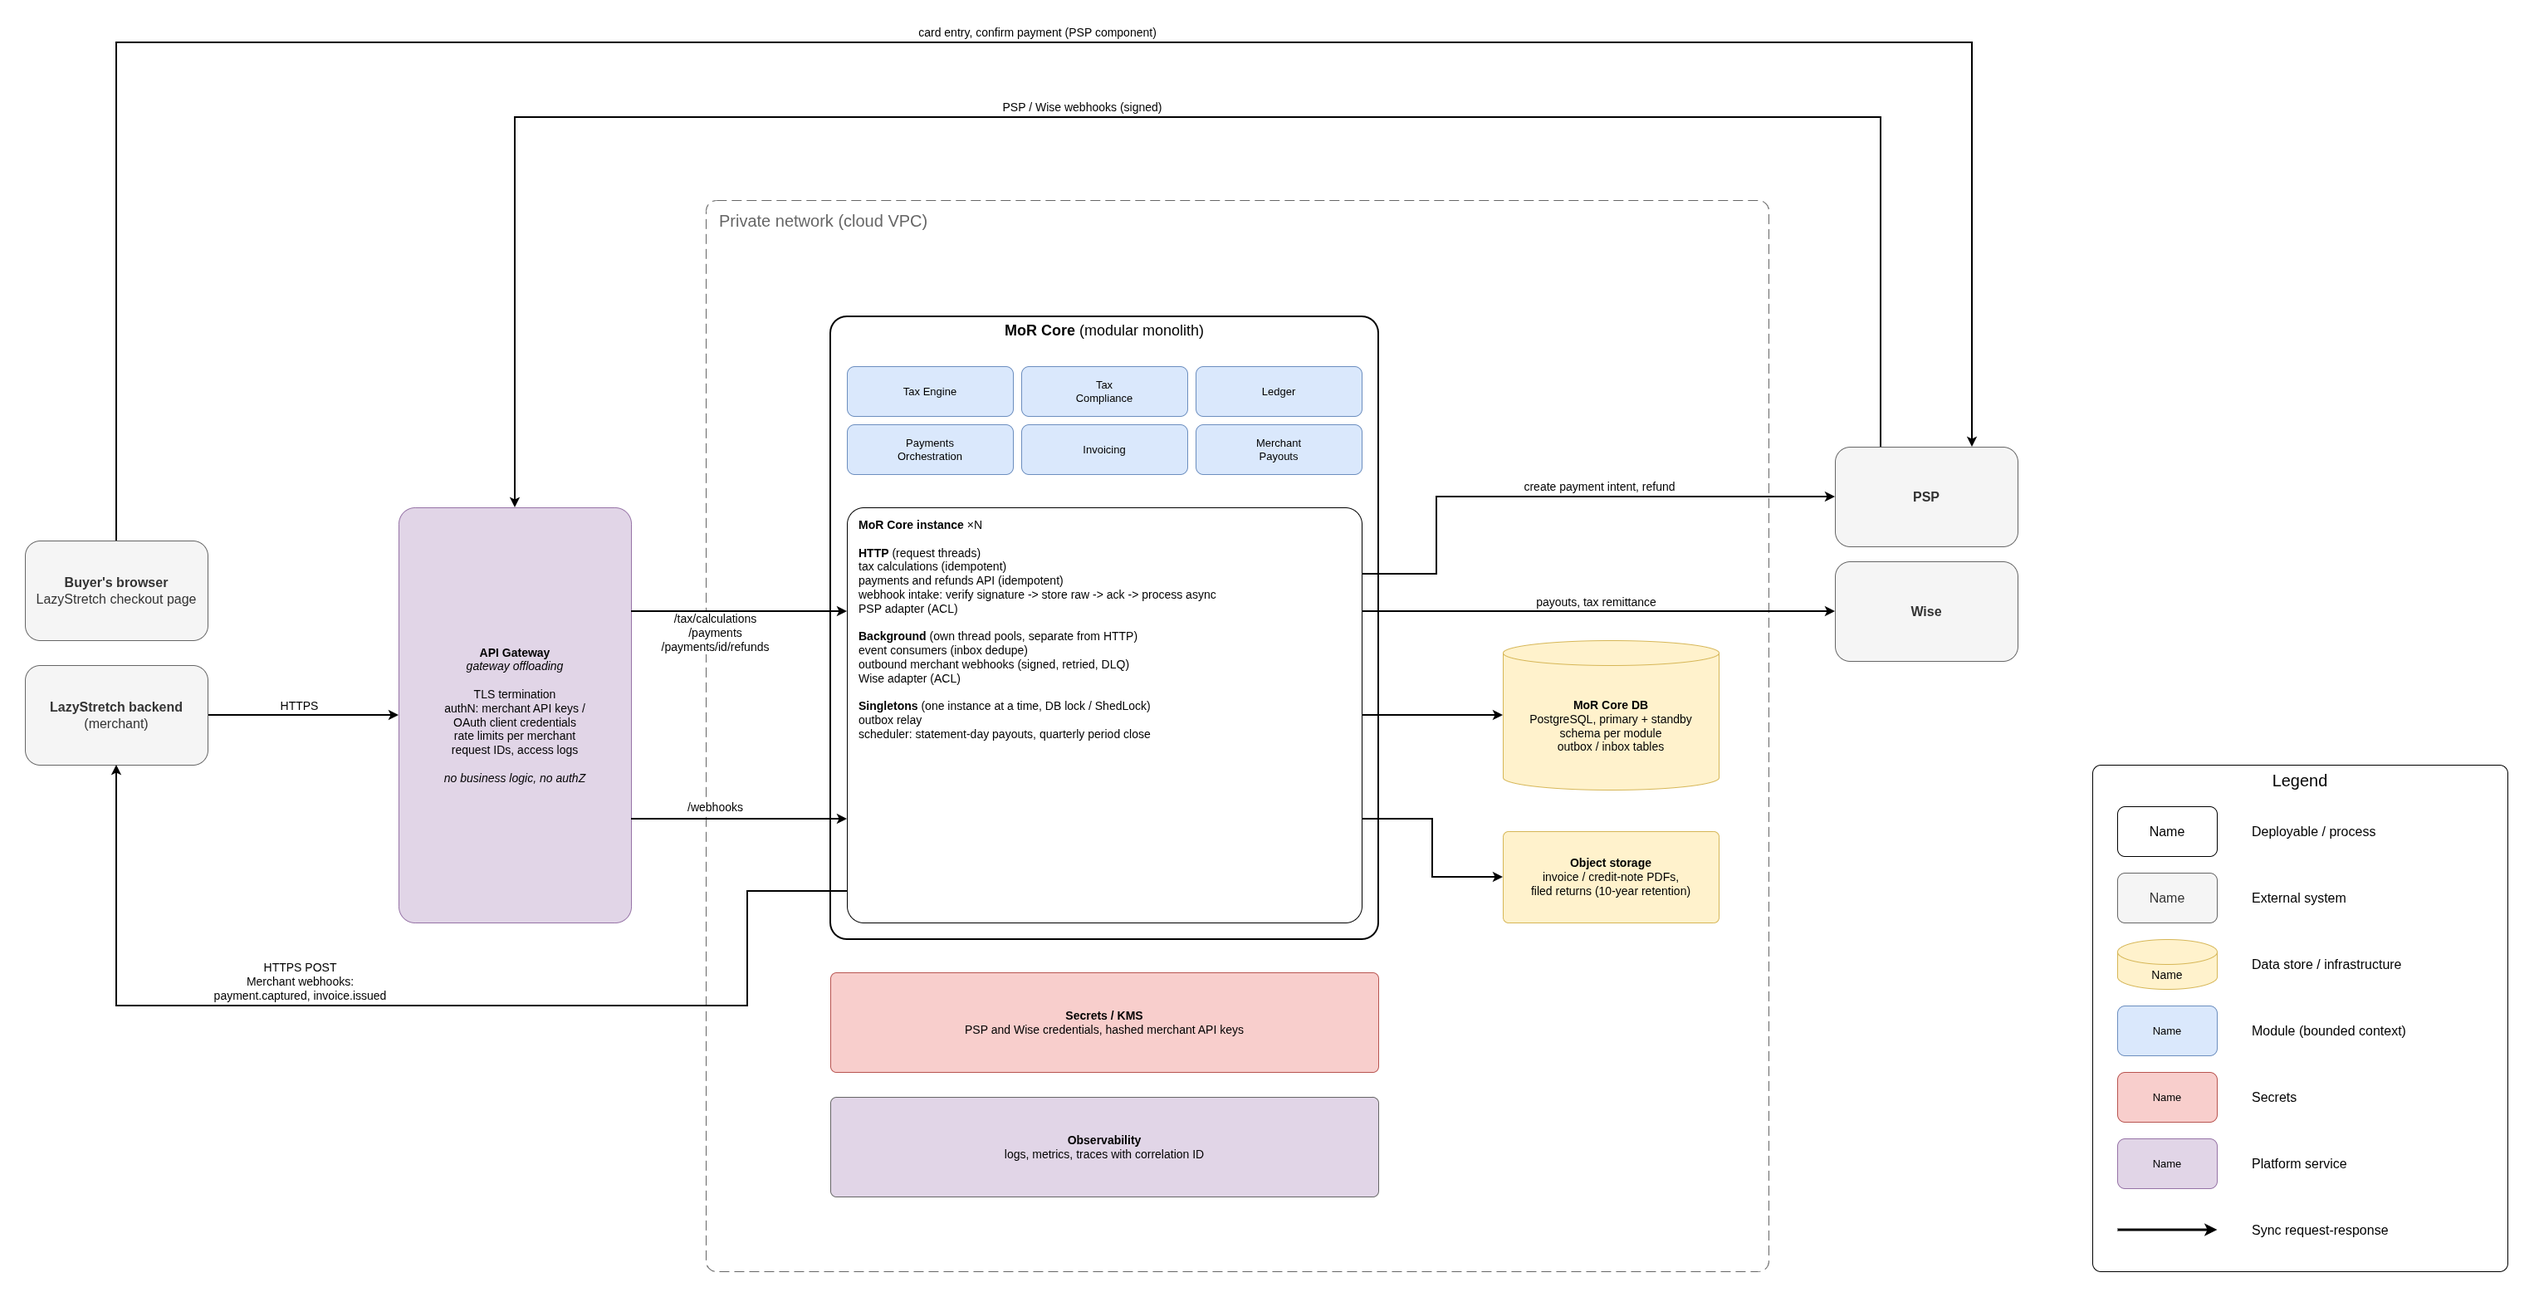
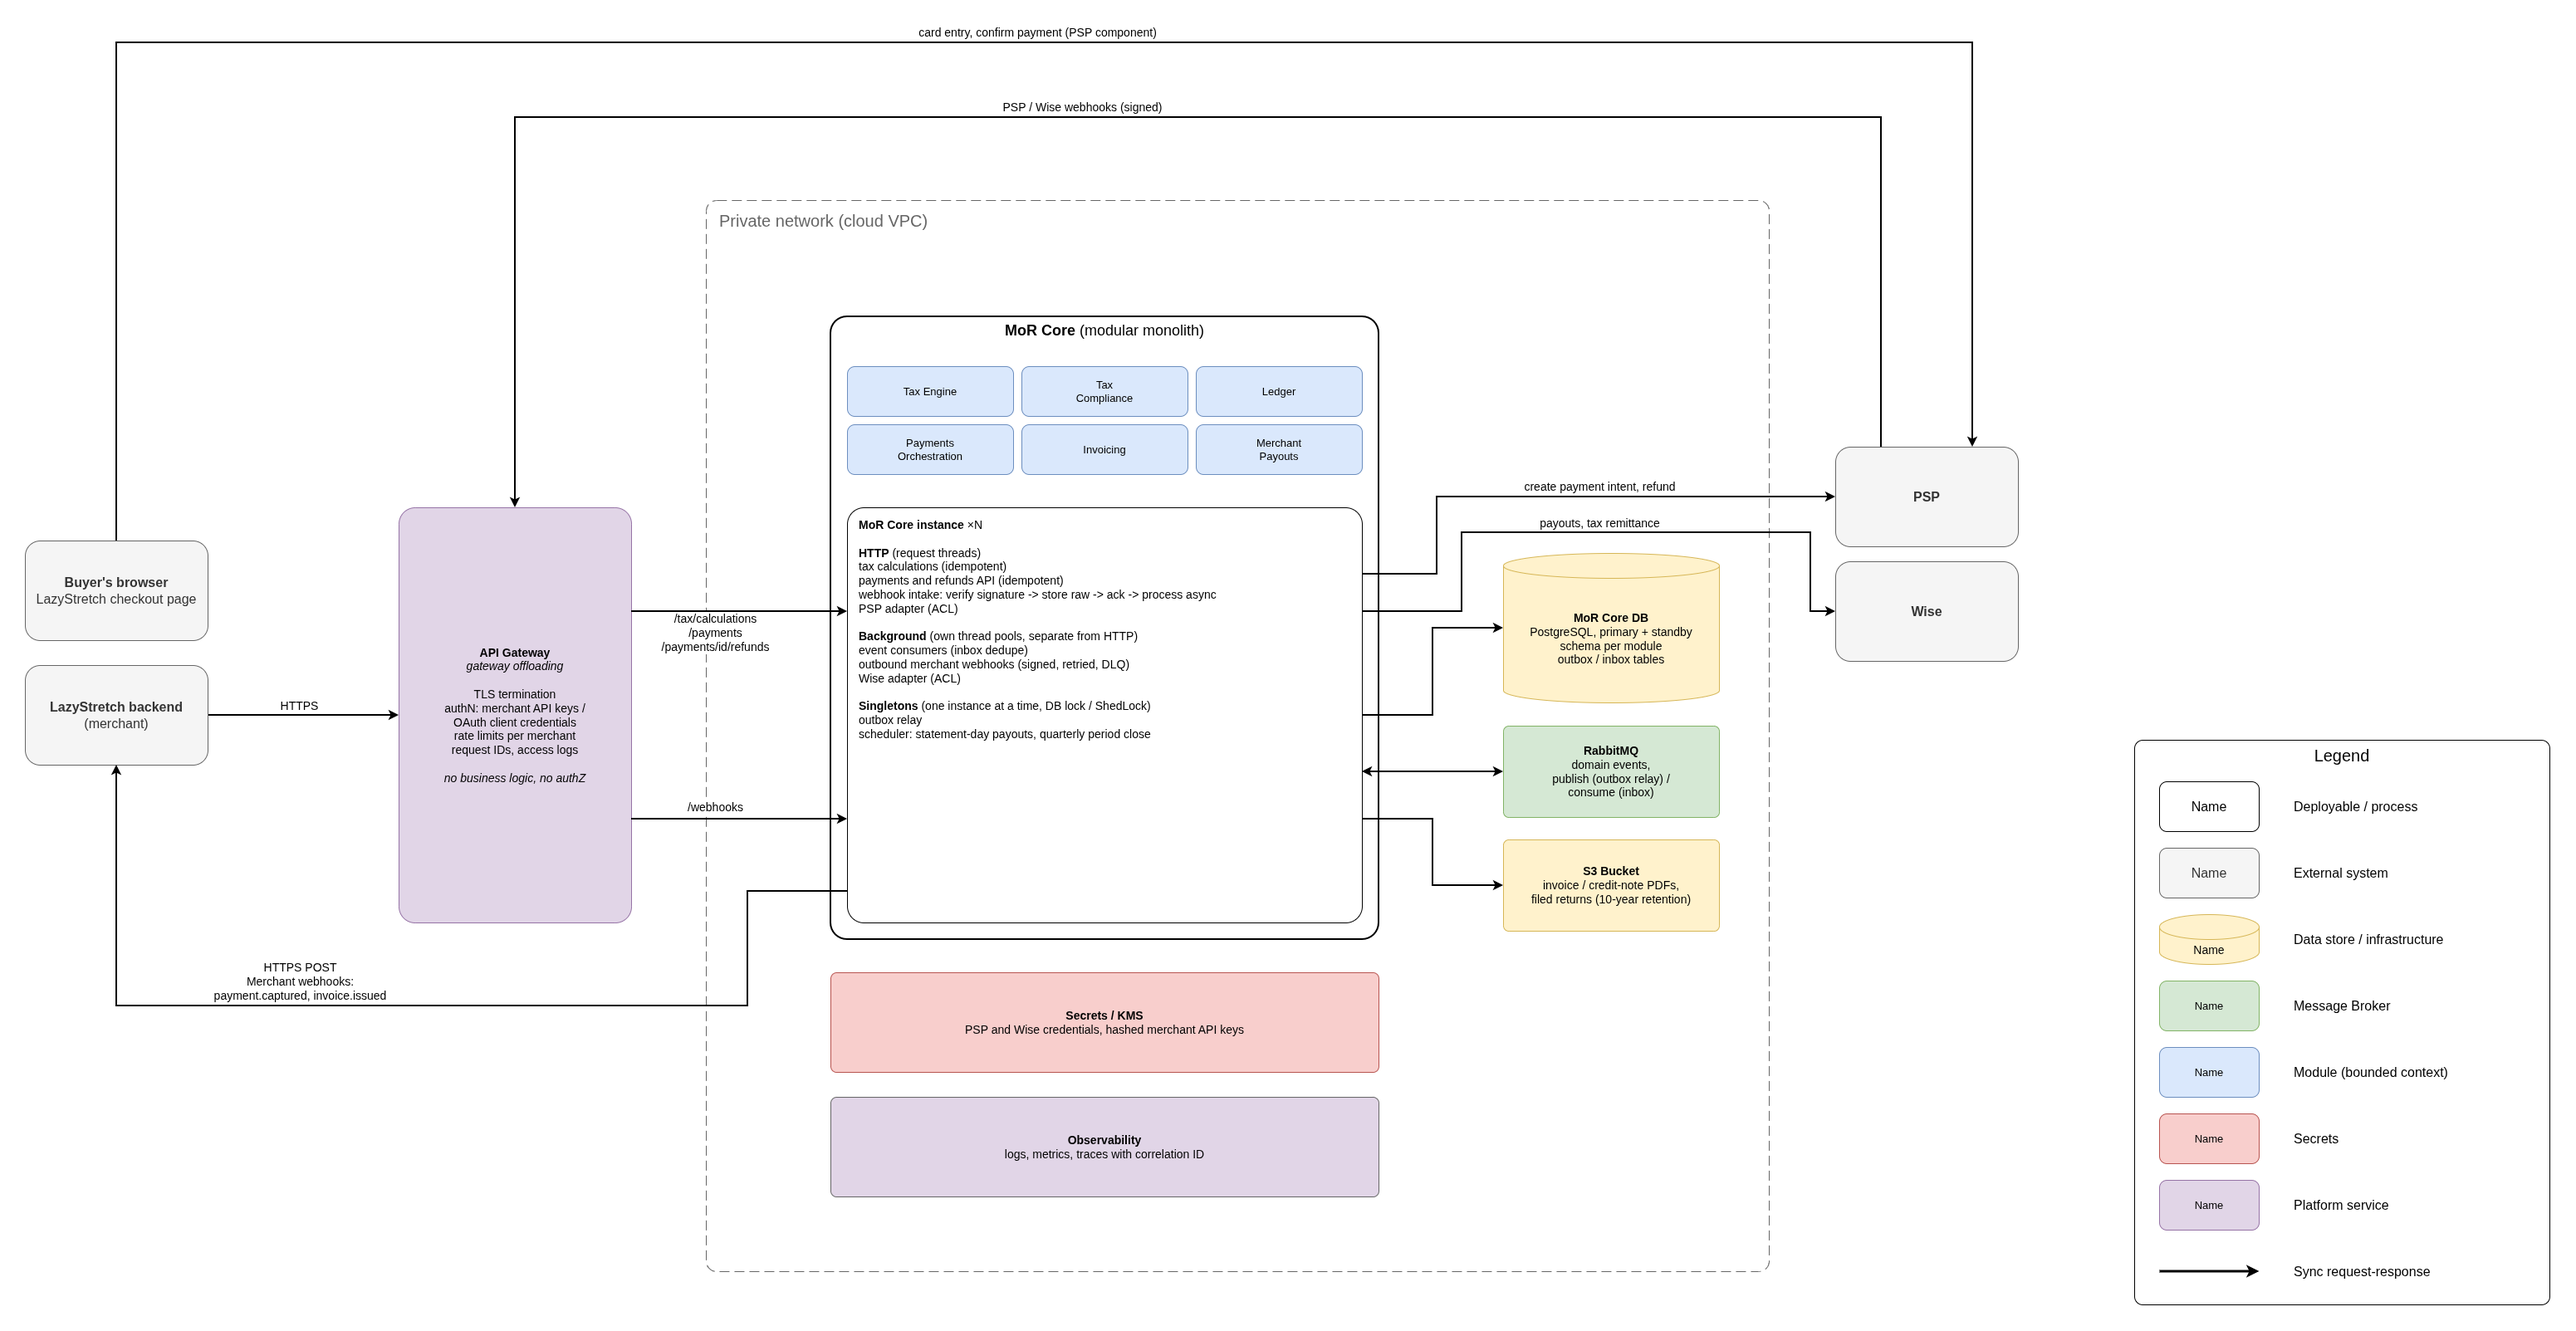
Updated the design

diff --git a/homework/design/implementation.html b/homework/design/implementation.html
@@ -20,21 +20,37 @@
 <li><a href="../design/communications.html"><span class="num">04</span>Communications Diagram</a></li>
 <li><a href="../design/architecture.html"><span class="num">05</span>Quality Attributes &amp; Architectural Style</a></li>
 <li><a href="../design/deployment.html"><span class="num">06</span>Deployment Diagram</a></li>
-<li class="active"><a href="../design/implementation.html" aria-current="page"><span class="num">07</span>Implementation Details</a><ol class="toc"><li><a href="#event-delivery-no-broker">Event delivery (no broker)</a></li><li><a href="#idempotency">Idempotency</a></li><li><a href="#ledger-internals">Ledger internals</a></li><li><a href="#data-ownership-and-retention">Data ownership and retention</a></li><li><a href="#security">Security</a></li></ol></li>
+<li class="active"><a href="../design/implementation.html" aria-current="page"><span class="num">07</span>Implementation Details</a><ol class="toc"><li><a href="#event-delivery-rabbitmq">Event delivery (RabbitMQ)</a></li><li><a href="#idempotency">Idempotency</a></li><li><a href="#ledger-internals">Ledger internals</a></li><li><a href="#data-ownership-and-retention">Data ownership and retention</a></li><li><a href="#security">Security</a></li></ol></li>
 <li class="group">Appendix</li><li><a href="../design/sequence-diagrams.html"><span class="num">A</span>Sequence Diagrams</a></li>
 </ol>
 </nav>
 <main class="content">
 <h1 id="implementation-details">Implementation Details</h1>
-<h2 id="event-delivery-no-broker">Event delivery (no broker)<a class="anchor" href="#event-delivery-no-broker" aria-label="Link to this section">#</a></h2>
+<h2 id="event-delivery-rabbitmq">Event delivery (RabbitMQ)<a class="anchor" href="#event-delivery-rabbitmq" aria-label="Link to this section">#</a></h2>
 <ul>
-<li>The event is written to the module&#39;s <code>outbox</code> table in the same DB transaction as the state change.</li>
-<li>A singleton outbox relay (DB lock) delivers events in-process to subscribers; each handler runs in its own transaction.</li>
-<li>The relay, retries and dead-letter handling come from a proven library (framework outbox support or a Postgres-backed queue), not hand-written code.</li>
-<li>At-least-once delivery, ordered per aggregate (payment ID, payout ID); retries with backoff, then a dead-letter table and an alert.</li>
+<li>The event is written to the module&#x27;s <code>outbox</code> table in the same DB transaction as the state change.</li>
+<li>A singleton outbox relay (DB lock) publishes the events to RabbitMQ with publisher confirms; a row is marked sent only after the broker confirms it.</li>
+<li>One topic exchange per publishing module; each consuming module has its own durable queue bound by event type, so modules don&#x27;t share queues.</li>
+<li>Consumers dedupe through the module&#x27;s <code>inbox</code> table; each handler runs in its own transaction and acks the message after commit.</li>
+<li>At-least-once delivery, ordered per aggregate (payment ID, payout ID): a single active consumer per queue, and state-transition guards drop late events.</li>
+<li>Retries with backoff through retry queues (message TTL + dead-letter exchange), then a dead-letter queue and an alert.</li>
 <li>Events carry an event ID, a schema version and a correlation ID; fields are only added, never changed.</li>
-<li>After a split, the relay publishes to Kafka/RabbitMQ instead; the outbox, inbox and event contracts stay the same.</li>
+<li>Exchanges, queues, bindings and policies are declared in code and versioned with the app, so the topology is reviewable and reproducible.</li>
+<li>After a split, the extracted service connects to the same broker; the outbox, inbox, exchanges and event contracts stay the same.</li>
 </ul>
+<p>Why RabbitMQ:</p>
+<ul>
+<li>Industry standard and production-grade.</li>
+<li>Widely adopted, so it is easier to hire engineers who have run it than for niche libraries.</li>
+<li>Easy to maintain: exchanges and queues are explicit, and the management UI shows queue depth, unacked and dead-lettered messages when something goes wrong.</li>
+<li>The infrastructure is ready for splitting the monolith into services when it is needed.</li>
+</ul>
+<p>Why not Kafka:</p>
+<ul>
+<li>Built for high-throughput streaming and replay; our load (~10 events/s at peak) doesn&#x27;t need it.</li>
+<li>Heavier to run and tune (partitions, consumer groups, retention), and it has no built-in per-message retry or dead-lettering; we&#x27;d have to build them.</li>
+</ul>
+<p>Alternative: if the team already knows one well, use the framework&#x27;s own message bus or a Postgres-backed queue instead. That means one less piece of infrastructure, and the outbox/inbox design stays the same.</p>
 <h2 id="idempotency">Idempotency<a class="anchor" href="#idempotency" aria-label="Link to this section">#</a></h2>
 <ul>
 <li>Merchant API: <code>Idempotency-Key</code> per merchant (stored response + request hash, kept for 24 h).</li>

diff --git a/homework/design/deployment.html b/homework/design/deployment.html
@@ -26,7 +26,7 @@
 </nav>
 <main class="content">
 <h1 id="deployment-diagram">Deployment Diagram</h1>
-<figure class="figure"><a href="../models-Deployment.png" target="_blank" rel="noopener" title="Open full size"><img src="../models-Deployment.png" alt="models-Deployment.png" loading="lazy"></a><figcaption>models-Deployment.png <a href="../models-Deployment.png" target="_blank" rel="noopener">Open full size ↗&#xFE0E;</a></figcaption></figure>
+<figure class="figure"><a href="../models-Deployment.png?v=2" target="_blank" rel="noopener" title="Open full size"><img src="../models-Deployment.png?v=2" alt="models-Deployment.png" loading="lazy"></a><figcaption>models-Deployment.png <a href="../models-Deployment.png?v=2" target="_blank" rel="noopener">Open full size ↗&#xFE0E;</a></figcaption></figure>
 
 <nav class="pager" aria-label="Pages"><a class="prev" href="../design/architecture.html"><span>Previous</span>Quality Attributes &amp; Architectural Style</a><a class="next" href="../design/implementation.html"><span>Next</span>Implementation Details</a></nav>
 </main>

diff --git a/homework/design.md b/homework/design.md
@@ -224,14 +224,28 @@ If the modelled load profile is close to reality, then:
 
 ## Implementation Details
 
-### Event delivery (no broker)
+### Event delivery (RabbitMQ)
 
 - The event is written to the module's `outbox` table in the same DB transaction as the state change.
-- A singleton outbox relay (DB lock) delivers events in-process to subscribers; each handler runs in its own transaction.
-- The relay, retries and dead-letter handling come from a proven library (framework outbox support or a Postgres-backed queue), not hand-written code.
-- At-least-once delivery, ordered per aggregate (payment ID, payout ID); retries with backoff, then a dead-letter table and an alert.
+- A singleton outbox relay (DB lock) publishes the events to RabbitMQ with publisher confirms; a row is marked sent only after the broker confirms it.
+- One topic exchange per publishing module; each consuming module has its own durable queue bound by event type, so modules don't share queues.
+- Consumers dedupe through the module's `inbox` table; each handler runs in its own transaction and acks the message after commit.
+- At-least-once delivery, ordered per aggregate (payment ID, payout ID): a single active consumer per queue, and state-transition guards drop late events.
+- Retries with backoff through retry queues (message TTL + dead-letter exchange), then a dead-letter queue and an alert.
 - Events carry an event ID, a schema version and a correlation ID; fields are only added, never changed.
-- After a split, the relay publishes to Kafka/RabbitMQ instead; the outbox, inbox and event contracts stay the same.
+- Exchanges, queues, bindings and policies are declared in code and versioned with the app, so the topology is reviewable and reproducible.
+- After a split, the extracted service connects to the same broker; the outbox, inbox, exchanges and event contracts stay the same.
+
+Why RabbitMQ:
+- Industry standard and production-grade.
+- Widely adopted, so it is easier to hire engineers who have run it than for niche libraries.
+- Easy to maintain: exchanges and queues are explicit, and the management UI shows queue depth, unacked and dead-lettered messages when something goes wrong.
+- The infrastructure is ready for splitting the monolith into services when it is needed.
+
+Why not Kafka:
+- Built for high-throughput streaming and replay; our load (~10 events/s at peak) doesn't need it.
+
+Alternative: if the team already knows one well, use the framework's own message bus or a Postgres-backed queue instead. That means one less piece of infrastructure, and the outbox/inbox design stays the same.
 
 ### Idempotency
 
